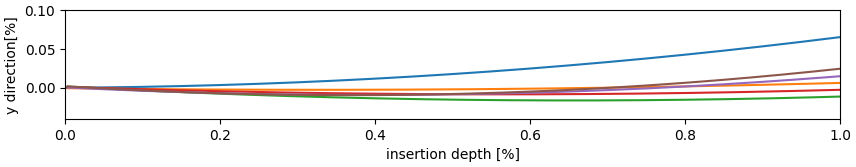
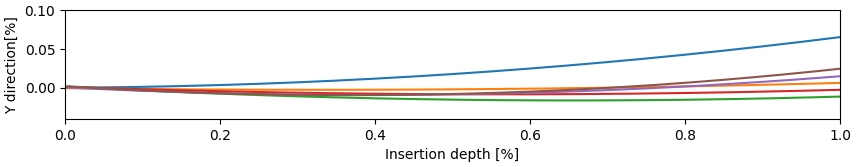
new plots with correct nomenclature

diff --git a/RE__Needle_robotics/Data analysis/report_plots.py b/RE__Needle_robotics/Data analysis/report_plots.py
@@ -3,9 +3,9 @@ import numpy as np
 plt.close()
 fig = plt.figure(figsize=[10, 100])
 plt.xlim(0, 1)
-plt.ylim(-0.04, 0.1)
-plt.xlabel('insertion depth [%]')
-plt.ylabel('y direction[%]')
+plt.ylim(0, 0.2)
+plt.xlabel('Insertion depth [%]')
+plt.ylabel('Y direction[%]')
 ax = plt.gca()
 ax.set_aspect('equal', adjustable='box')
 
@@ -27,7 +27,7 @@ Total = [Phantom_1, Phantom_2, Phantom_3, Phantom_4, Phantom_5, Phantom_6]
 
 xp = np.linspace(0, 1, 300)
 count = 0
-for i in total:
+for i in Total:
     count += 1
     lim = i[0][-1]
     i[0] = [i[0][j] / lim for j in range(len(i[0]))]
@@ -37,8 +37,8 @@ for i in total:
     p = np.poly1d(coef)
     data = p(xp)
     data[0] = 0
-    plt.plot(xp, data, label=f'phantom {count}')
+    plt.plot(xp, data, label=f'Phantom {count}')
 
-
+plt.legend()
 #plt.show()
-plt.savefig('40_degrees.png', bbox_inches='tight', pad_inches=0.05)
+plt.savefig('80_degrees.png', bbox_inches='tight', pad_inches=0.05)

diff --git a/RE__Needle_robotics/Data analysis/curve_plotter.py b/RE__Needle_robotics/Data analysis/curve_plotter.py
@@ -32,7 +32,7 @@ if __name__ == "__main__":
     for j in range(5):
         x_list = []
         y_list = []
-        img = cv2.imread(f'C:\My_Life\Apps\GitHub Desktop\BME_NeedleRobotics\RE__Needle_robotics\Data analysis\Curve\90 degrees\phantom6\phantom6\phantom6test5_insertion.jpg', 1)
+        img = cv2.imread(f'C:\My_Life\Apps\GitHub Desktop\BME_NeedleRobotics\RE__Needle_robotics\Data analysis\Curve\90 degrees\phantom3\phantom3\phantom3test5_insertion.jpg', 1)
         img = cv2.resize(img, (1920, 1080))
         img = cv2.flip(img, 1)
         # displaying the image
